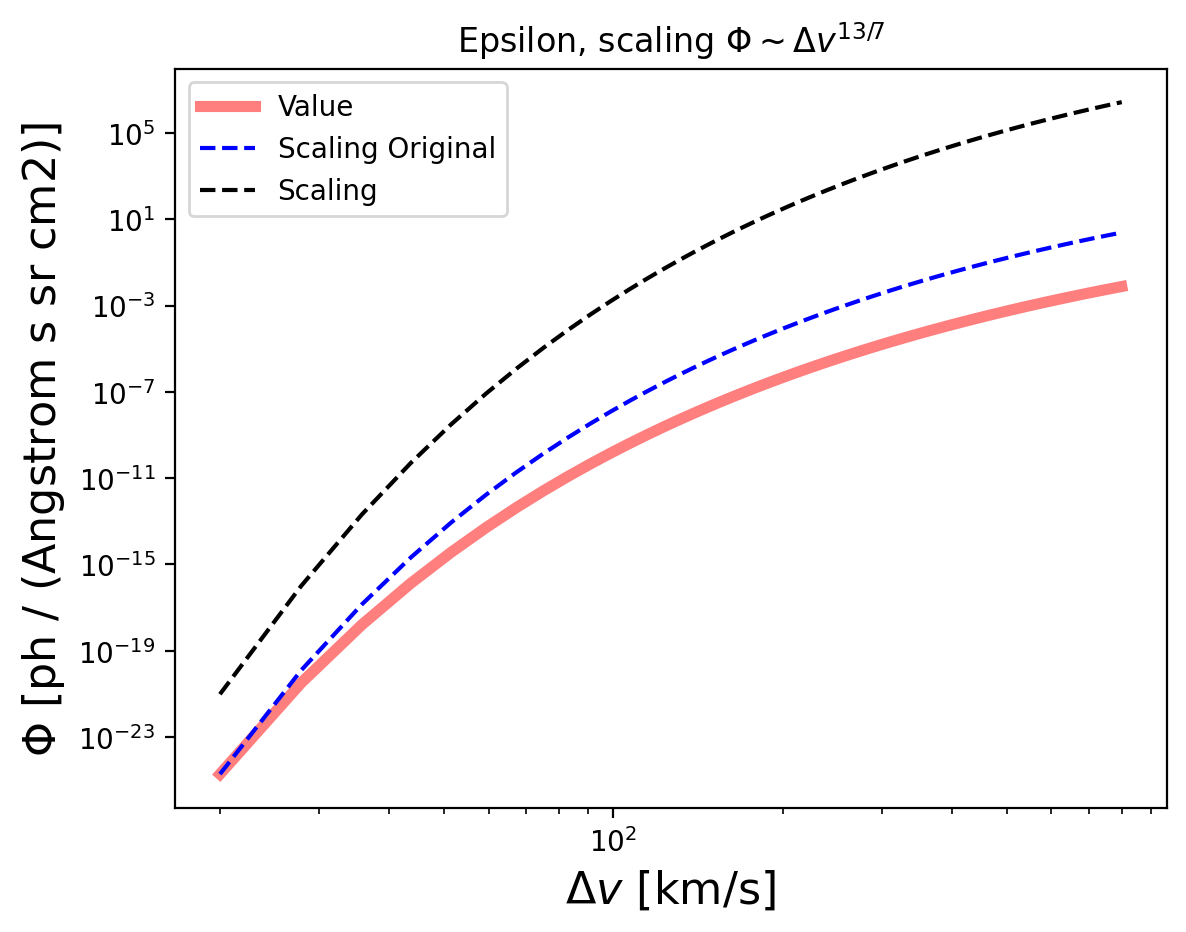
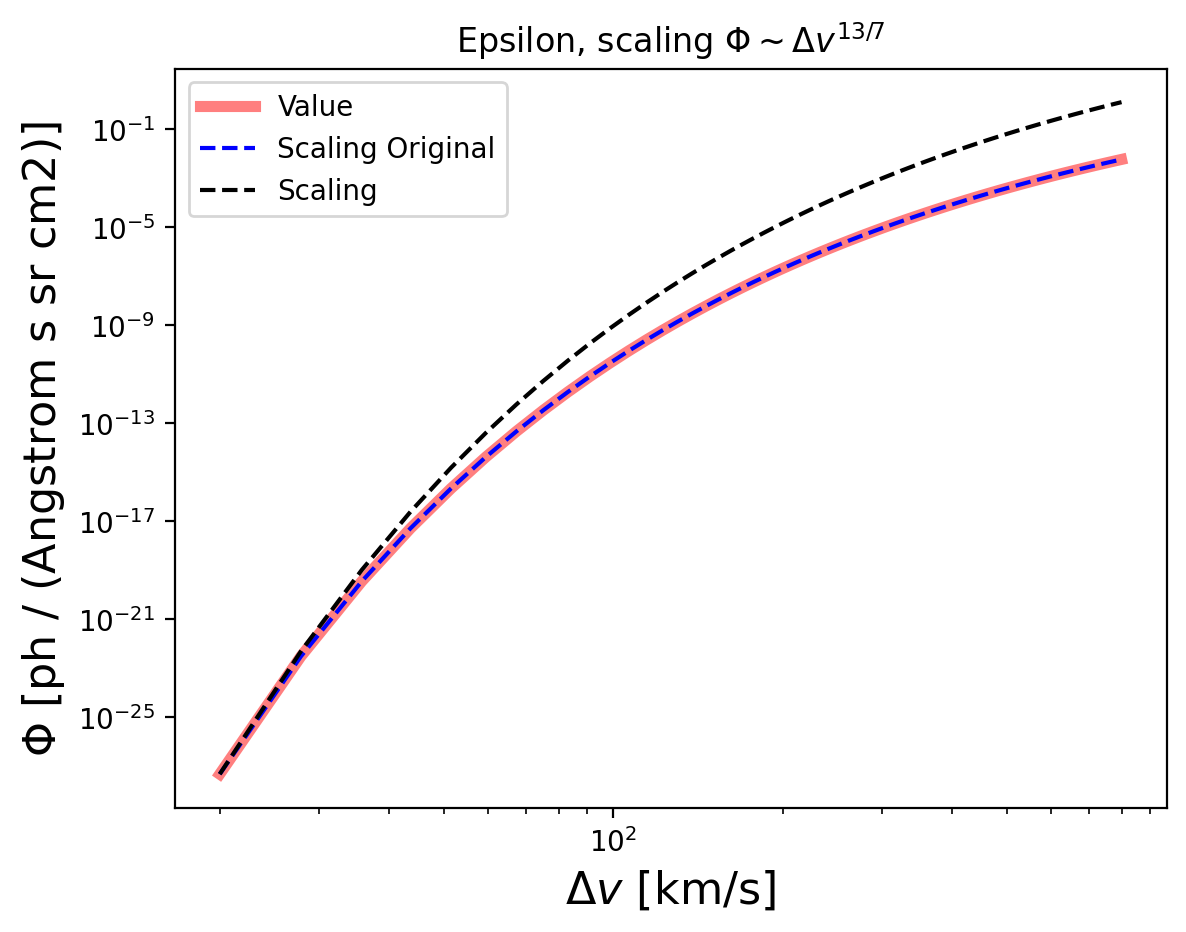
more magnitude testing

diff --git a/processing/notebook_functions.py b/processing/notebook_functions.py
@@ -564,9 +564,9 @@ def epsilon_parameter_relations_study(quant_original, m_aqn_kg, frequency_band):
         w = 2 * np.pi * nu * Hz_to_erg
         x = w/T
         res = (v/(v[0]))**(13/7) * H(x) / H(x[0]) * erg_hz_cm2
-        print(res)
+        # print(res)
         res = to_skymap_units(res, nu) / u.sr
-        print(res)
+        # print(res)
         scaling_relation += res * dnu/nu_range
 
     # print(np.mean(scaling_relation - epsilon_array) * epsilon_to_photon)
@@ -574,85 +574,85 @@ def epsilon_parameter_relations_study(quant_original, m_aqn_kg, frequency_band):
     # for i in range(len(velocity_array)):
     #     print(velocity_array[i].value, (scaling_relation[i]*epsilon_to_photon).value, (epsilon_array[i]*epsilon_to_photon).value)
     
-    plt.plot(velocity_array, epsilon_array[0] * scaling_relation, "--", color="black", label="Scaling")
+    plt.plot(velocity_array, epsilon_array[0]*epsilon_to_photon * scaling_relation / scaling_relation[0], "--", color="black", label="Scaling")
     plt.title(r"Epsilon, scaling $\Phi\sim \Delta v^{13/7}$")
     ax.set_xscale("log")
     ax.set_yscale("log")
     plt.legend()
     plt.savefig(parameter_relations_save_location+"epsilon_vs_dv.png", bbox_inches="tight")
 
-    # quant = quant_original.copy()
+    quant = quant_original.copy()
 
-    # ioni_gas_array = np.logspace(-4, -1, 100) * 1/u.cm**3
-    # epsilon_array, t_aqn_i_array = parameter_variation(quant, m_aqn_kg, frequency_band, "ioni_gas", ioni_gas_array)
+    ioni_gas_array = np.logspace(-4, -1, 100) * 1/u.cm**3
+    epsilon_array, t_aqn_i_array = parameter_variation(quant, m_aqn_kg, frequency_band, "ioni_gas", ioni_gas_array)
 
-    # T = t_aqn_i_array * eV_to_erg
-    # w = 2 * np.pi * np.mean(frequency_band) * Hz_to_erg
-    # x = w/T
+    T = t_aqn_i_array * eV_to_erg
+    w = 2 * np.pi * np.mean(frequency_band) * Hz_to_erg
+    x = w/T
 
-    # scaling_relation = epsilon_array[0] * (ioni_gas_array/ioni_gas_array[0])**(13/7) * H(x) / H(x[0])
-    # # print(np.mean(scaling_relation - epsilon_array) * epsilon_to_photon)
-    # fig, ax = plot_parameter_variation(r"$n_{ion}$ [1/cm$^3$]", r"$\Phi$ "+"["+str(photon_units.unit)+"]", ioni_gas_array, 
-    #     epsilon_array*epsilon_to_photon)
-    # # plot_scaling_relation(ax, ioni_gas_array, 4/7, np.min(T_AQN_array))
-    # plt.plot(ioni_gas_array, scaling_relation*epsilon_to_photon, "--", color="black", label="Scaling")
+    scaling_relation = epsilon_array[0] * (ioni_gas_array/ioni_gas_array[0])**(13/7) * H(x) / H(x[0])
+    # print(np.mean(scaling_relation - epsilon_array) * epsilon_to_photon)
+    fig, ax = plot_parameter_variation(r"$n_{ion}$ [1/cm$^3$]", r"$\Phi$ "+"["+str(photon_units.unit)+"]", ioni_gas_array, 
+        epsilon_array*epsilon_to_photon)
+    # plot_scaling_relation(ax, ioni_gas_array, 4/7, np.min(T_AQN_array))
+    plt.plot(ioni_gas_array, scaling_relation*epsilon_to_photon, "--", color="black", label="Scaling")
 
-    # plt.title(r"Epsilon vs n_ion, scaling $\Phi\sim n_{ion}^{(13/7)}$")
-    # ax.set_xscale("log")
-    # ax.set_yscale("log")
-    # plt.legend()
-    # plt.savefig(parameter_relations_save_location+"epsilon_vs_ioni_gas.png", bbox_inches="tight")
-
-
-    # quant = quant_original.copy()
-
-    # m_aqn_kg_array = np.logspace(-4, -1, 100) * u.kg
-    # epsilon_array, t_aqn_i_array = parameter_variation(quant, m_aqn_kg, frequency_band, "aqn_mass", m_aqn_kg_array, True)
-
-    # T = t_aqn_i_array * eV_to_erg
-    # w = 2 * np.pi * np.mean(frequency_band) * Hz_to_erg
-    # x = w/T
-
-    # scaling_relation = epsilon_array[0] * (m_aqn_kg_array/m_aqn_kg_array[0])**(19/21) * H(x) / H(x[0])
-    # # print(np.mean(scaling_relation - epsilon_array) * epsilon_to_photon)
-    # fig, ax = plot_parameter_variation(r"$m_{aqn}$ [kg]", r"$\Phi$ "+"["+str(photon_units.unit)+"]", m_aqn_kg_array, epsilon_array*epsilon_to_photon)
-    # plt.plot(m_aqn_kg_array, scaling_relation*epsilon_to_photon, "--", color="black", label="Scaling")
-
-    # plt.title(r"Epsilon vs m_AQN, scaling $\Phi\sim m_{AQN}^{(19/21)}$")
-    # ax.set_xscale("log")
-    # ax.set_yscale("log")
-    # plt.legend()
-    # plt.savefig(parameter_relations_save_location+"epsilon_vs_m_aqn.png", bbox_inches="tight")
+    plt.title(r"Epsilon vs n_ion, scaling $\Phi\sim n_{ion}^{(13/7)}$")
+    ax.set_xscale("log")
+    ax.set_yscale("log")
+    plt.legend()
+    plt.savefig(parameter_relations_save_location+"epsilon_vs_ioni_gas.png", bbox_inches="tight")
 
 
-    # quant = quant_original.copy()
+    quant = quant_original.copy()
 
-    # T_gas_array = np.logspace(2, 6, 100) * u.K
-    # T_gas_eff_array = np.zeros(len(T_gas_array)) * u.K
-    # epsilon_array = np.zeros(len(T_gas_array)) * epsilon_units
-    # t_aqn_i_array = np.zeros(parameter_array_length) * u.eV
-    # for i, T_gas in enumerate(T_gas_array):
-    #     quant["temp_ion"] = T_gas
-    #     enforce_units(quant)
-    #     res = compute_epsilon_ionized(quant, m_aqn_kg, frequency_band)
-    #     epsilon_array[i] = res["aqn_emit"]
-    #     T_gas_eff_array[i] = res["temp_ion_eff"] / K_to_eV
-    #     t_aqn_i_array[i] = res["t_aqn_i"]
-    #     # print(T_gas, epsilon_array[i])
-    # T = t_aqn_i_array * eV_to_erg
-    # w = 2 * np.pi * np.mean(frequency_band) * Hz_to_erg
-    # x = w/T
+    m_aqn_kg_array = np.logspace(-4, -1, 100) * u.kg
+    epsilon_array, t_aqn_i_array = parameter_variation(quant, m_aqn_kg, frequency_band, "aqn_mass", m_aqn_kg_array, True)
 
-    # scaling_relation = epsilon_array[0] * (T_gas_eff_array/T_gas_eff_array[0])**(-26/7) * H(x) / H(x[0])
-    # # print(np.mean(scaling_relation - epsilon_array) * epsilon_to_photon)
-    # fig, ax = plot_parameter_variation(r"$T_{gas eff}$ [K]", r"$\Phi$ "+"["+str(photon_units.unit)+"]", T_gas_eff_array, epsilon_array*epsilon_to_photon)
-    # plt.plot(T_gas_eff_array, scaling_relation*epsilon_to_photon, "--", color="black", label="Scaling")
-    # # plot_scaling_relation(ax, T_gas_eff_array, -8/7, np.min(t_aqn_i_array))
-    # plt.title(r"$\epsilon$ vs T_gas_eff, scaling $\Phi\sim T_{g,eff}^{(-26/7)}$")
-    # ax.set_xscale("log")
-    # ax.set_yscale("log")
-    # plt.legend()
-    # plt.savefig(parameter_relations_save_location+"epsilon_vs_t_gas_eff.png", bbox_inches="tight")
+    T = t_aqn_i_array * eV_to_erg
+    w = 2 * np.pi * np.mean(frequency_band) * Hz_to_erg
+    x = w/T
+
+    scaling_relation = epsilon_array[0] * (m_aqn_kg_array/m_aqn_kg_array[0])**(19/21) * H(x) / H(x[0])
+    # print(np.mean(scaling_relation - epsilon_array) * epsilon_to_photon)
+    fig, ax = plot_parameter_variation(r"$m_{aqn}$ [kg]", r"$\Phi$ "+"["+str(photon_units.unit)+"]", m_aqn_kg_array, epsilon_array*epsilon_to_photon)
+    plt.plot(m_aqn_kg_array, scaling_relation*epsilon_to_photon, "--", color="black", label="Scaling")
+
+    plt.title(r"Epsilon vs m_AQN, scaling $\Phi\sim m_{AQN}^{(19/21)}$")
+    ax.set_xscale("log")
+    ax.set_yscale("log")
+    plt.legend()
+    plt.savefig(parameter_relations_save_location+"epsilon_vs_m_aqn.png", bbox_inches="tight")
+
+
+    quant = quant_original.copy()
+
+    T_gas_array = np.logspace(2, 6, 100) * u.K
+    T_gas_eff_array = np.zeros(len(T_gas_array)) * u.K
+    epsilon_array = np.zeros(len(T_gas_array)) * epsilon_units
+    t_aqn_i_array = np.zeros(parameter_array_length) * u.eV
+    for i, T_gas in enumerate(T_gas_array):
+        quant["temp_ion"] = T_gas
+        enforce_units(quant)
+        res = compute_epsilon_ionized(quant, m_aqn_kg, frequency_band)
+        epsilon_array[i] = res["aqn_emit"]
+        T_gas_eff_array[i] = res["temp_ion_eff"] / K_to_eV
+        t_aqn_i_array[i] = res["t_aqn_i"]
+        # print(T_gas, epsilon_array[i])
+    T = t_aqn_i_array * eV_to_erg
+    w = 2 * np.pi * np.mean(frequency_band) * Hz_to_erg
+    x = w/T
+
+    scaling_relation = epsilon_array[0] * (T_gas_eff_array/T_gas_eff_array[0])**(-26/7) * H(x) / H(x[0])
+    # print(np.mean(scaling_relation - epsilon_array) * epsilon_to_photon)
+    fig, ax = plot_parameter_variation(r"$T_{gas eff}$ [K]", r"$\Phi$ "+"["+str(photon_units.unit)+"]", T_gas_eff_array, epsilon_array*epsilon_to_photon)
+    plt.plot(T_gas_eff_array, scaling_relation*epsilon_to_photon, "--", color="black", label="Scaling")
+    # plot_scaling_relation(ax, T_gas_eff_array, -8/7, np.min(t_aqn_i_array))
+    plt.title(r"$\epsilon$ vs T_gas_eff, scaling $\Phi\sim T_{g,eff}^{(-26/7)}$")
+    ax.set_xscale("log")
+    ax.set_yscale("log")
+    plt.legend()
+    plt.savefig(parameter_relations_save_location+"epsilon_vs_t_gas_eff.png", bbox_inches="tight")
 
 
 

diff --git a/processing/testing-velocity-distribution.py b/processing/testing-velocity-distribution.py
@@ -37,12 +37,14 @@ quant = {
     'dark_mat': np.array([0.3]) * u.GeV/u.cm**3 * GeV_to_g,
     'ioni_gas': np.array([0.01]) * 1/u.cm**3,
     'neut_gas': np.array([0]) * 1/u.cm**3, 
-    'temp_ion': np.array([1e4]) * u.K, 
+    'temp_ion': np.array([1e6]) * u.K, 
     'dv_ioni':  np.array([220]) * u.km/u.s, 
     'dv_neut':  np.array([200]) * u.km/u.s,
 }
 
 m_aqn_kg = 16.7/1000 * u.kg
+
+
 
 # n_bar = 0.01 * 1/u.cm**3
 # Dv = 220 * u.km/u.s
@@ -62,7 +64,6 @@ m_aqn_kg = 16.7/1000 * u.kg
 #     T_p = 10**4 * u.K * K_to_eV,
 #     R = calc_R_AQN((16.7 * u.g).to(u.kg))))
 
-# print("----->", compute_epsilon_ionized(quant.copy(), m_aqn_kg, frequency_band)["aqn_emit"] * (0.6*u.kpc).to(u.cm)/(4*np.pi))
 
 # print("\n\n")
 
@@ -122,10 +123,13 @@ quant = {
     'dark_mat': np.array([0.3]) * u.GeV/u.cm**3 * GeV_to_g,
     'ioni_gas': np.array([0.01]) * 1/u.cm**3,
     'neut_gas': np.array([0]) * 1/u.cm**3, 
-    'temp_ion': np.array([1e6]) * u.K, 
-    'dv_ioni':  np.array([300]) * u.km/u.s, 
+    'temp_ion': np.array([1e4]) * u.K, 
+    'dv_ioni':  np.array([220]) * u.km/u.s, 
     'dv_neut':  np.array([200]) * u.km/u.s,
 }
+
+enforce_units(quant)
+print("----->", compute_epsilon_ionized(quant.copy(), m_aqn_kg, frequency_band)["aqn_emit"] * (0.6*u.kpc).to(u.cm)/(4*np.pi))
 
 # print("Initial temp_ion is::::")
 # print(quant["temp_ion"])
@@ -135,29 +139,62 @@ quant = {
 # t_aqn_parameter_relations_study(quant.copy(), m_aqn_kg, frequency_band)
 
 # Investigation of epsilon VS dv, ioni_gas, m_aqn and T_gas_eff
-epsilon_parameter_relations_study(quant.copy(), m_aqn_kg, frequency_band)
-
-# T_AQN_array = np.zeros(len(velocity_array)) * u.K
-# for i, velocity in enumerate(velocity_array):
-#     quant["dv_ioni"] = velocity
-#     enforce_units(quant)
-#     T_AQN_array[i] = compute_epsilon_ionized(quant, m_aqn_kg, frequency_band)["t_aqn_i"] / K_to_eV
+# epsilon_parameter_relations_study(quant.copy(), m_aqn_kg, frequency_band)
 
 
-# fig, ax = plot_parameter_variation(r"$\Delta v$ [km/s]", r"$T_{aqn}$", velocity_array, T_AQN_array)
-# # plot_scaling_relation(ax, velocity_array, 20/7, np.max(T_AQN_array))
-# ax.plot(velocity_array, np.min(T_AQN_array) * (velocity_array.value * (1/(1+velocity_array.value**2)**2))**(4/7), label="Scaling")
-# ax.set_xscale("log")
-# ax.set_yscale("log")
-# plt.title(r"T_AQN after dv modification, scaling $(dv/(1+dv^2)^2)^{(4/7)}$")
-# plt.legend()
-# # plt.savefig(parameter_relations_save_location+"t_aqn_vs_dv.png", bbox_inches="tight")
-# plt.show()
+T_AQN = T_AQN_ionized2(n_bar=quant["ioni_gas"], 
+    Dv=quant["dv_ioni"], 
+    f=1, 
+    g=0.1, 
+    T_p=quant["temp_ion"], 
+    R=calc_R_AQN(m_aqn_kg))
+
+# print(T_AQN)
+from astropy import constants as cst
+from astropy import units as u
+
+T_AQN = 102.1*u.eV
+w = 1500 * u.AA 
+nu = w.to(u.Hz, equivalencies=u.spectral()) # 1.999e15 [Hz]
+L = (0.6*u.kpc).to(u.m)
+R = calc_R_AQN(m_aqn_kg).to(u.m) # 2.25 [m]
+n_AQN = 2/5 * quant["dark_mat"] / m_aqn_kg # 1.28e-20 [1/m**3]
+X = T_AQN.to(u.J)
+C = 8 * cst.alpha**(5/2) / (45*cst.hbar**2*cst.c**2)
+F = C * X**3 * (X/cst.m_e/cst.c**2)**(1/4) * H(2*np.pi*cst.hbar*nu/X)
+Phi = L*R**2*n_AQN*F/(2*np.pi*cst.hbar*w) * (1*u.m/(100*u.cm))**2
+print(Phi)
 
 
+# J_to_eV = (1*u.J).to(u.eV) / u.J
+# m2_to_cm2 = (1*u.m**2).to(u.cm**2) / u.m**2
+# A = 8 * cst.alpha**(5/2) / (45*cst.hbar**2*cst.c**2) * 1/J_to_eV**2
 
+# B = T_AQN**3
 
+# C = (T_AQN/m_e_eV)**(1/4)
 
+# nu = np.mean(frequency_band)
+
+# D = H(2*np.pi*cst.hbar*nu / T_AQN * J_to_eV)
+
+# F = A*B*C*D*eV_to_erg/m2_to_cm2/u.Hz
+
+# print(F)
+
+# w = nu.to(u.AA, equivalencies=u.spectral())
+# C = (erg_hz_cm2).to(photon_units*u.sr, u.spectral_density(w))
+
+# F = F * C / erg_hz_cm2 * 2*np.pi
+
+# L = (0.6*u.kpc).to(u.cm)
+# R = calc_R_AQN(m_aqn_kg)
+
+# print(F*L*R**2*quant["dark_mat"]/m_aqn_kg/(2*np.pi*cst.hbar*J_to_eV*w.to(u.cm)*eV_to_erg/inverg_to_cm)*(1/100*u.m/u.cm)**3)
+
+# print(quant["dark_mat"])
+
+# print(D)
 
 
 

diff --git a/processing/aqn.py b/processing/aqn.py
@@ -225,14 +225,14 @@ def compute_epsilon_ionized(cubes_import, m_aqn_kg, frequency_band):
 
     cubes["aqn_emit"] = np.zeros(np.shape(cubes["t_aqn_i"])) * photon_units
     
-    for nu in frequency_band:
-        cubes["aqn_emit"] += to_skymap_units(spectral_surface_emissivity(nu, 
-                           cubes["t_aqn_i"])/(dOmega)*dnu/nu_range, nu)        
+    # for nu in frequency_band:
+    #     cubes["aqn_emit"] += to_skymap_units(spectral_surface_emissivity(nu, 
+    #                        cubes["t_aqn_i"])/(dOmega)*dnu/nu_range, nu)        
 
     # vvv omit frequency band integration, use mean of frequency band instead: vvv
-    # nu_mean = np.mean(frequency_band)
-    # cubes["aqn_emit"] = to_skymap_units(spectral_surface_emissivity(nu_mean, 
-    #                        cubes["t_aqn_i"])/(dOmega), nu_mean) 
+    nu_mean = np.mean(frequency_band)
+    cubes["aqn_emit"] = to_skymap_units(spectral_surface_emissivity(nu_mean, 
+                           cubes["t_aqn_i"])/(dOmega), nu_mean) 
 
     cubes["aqn_emit"] = cubes["aqn_emit"] * 4 * np.pi * R_aqn_cm**2 * \
                        (cubes["dark_mat"] / m_aqn_kg).to(1/u.cm**3) * u.sr
